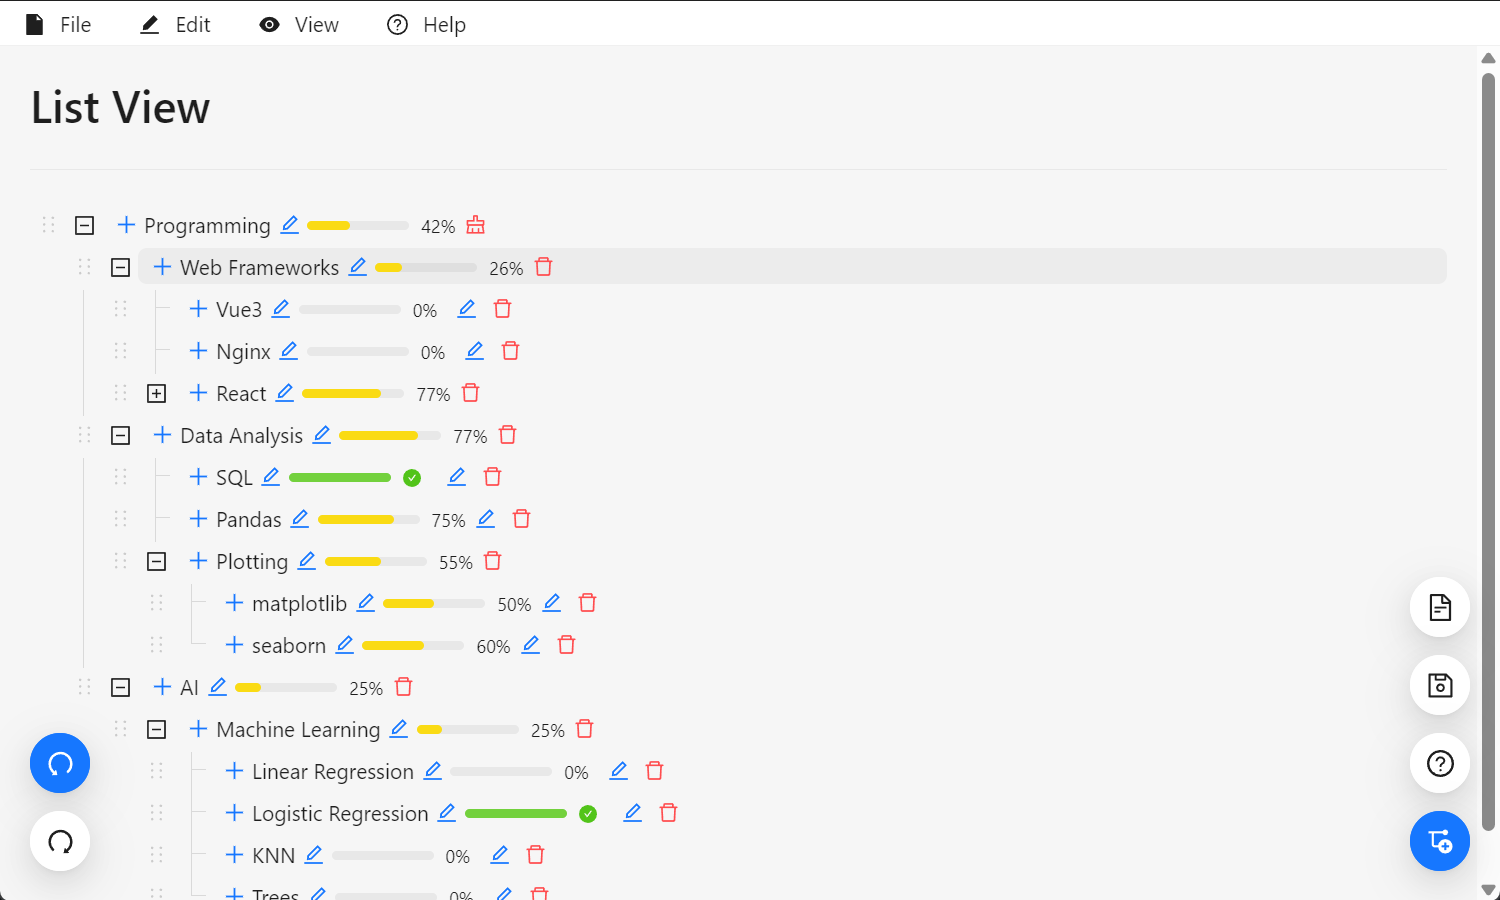
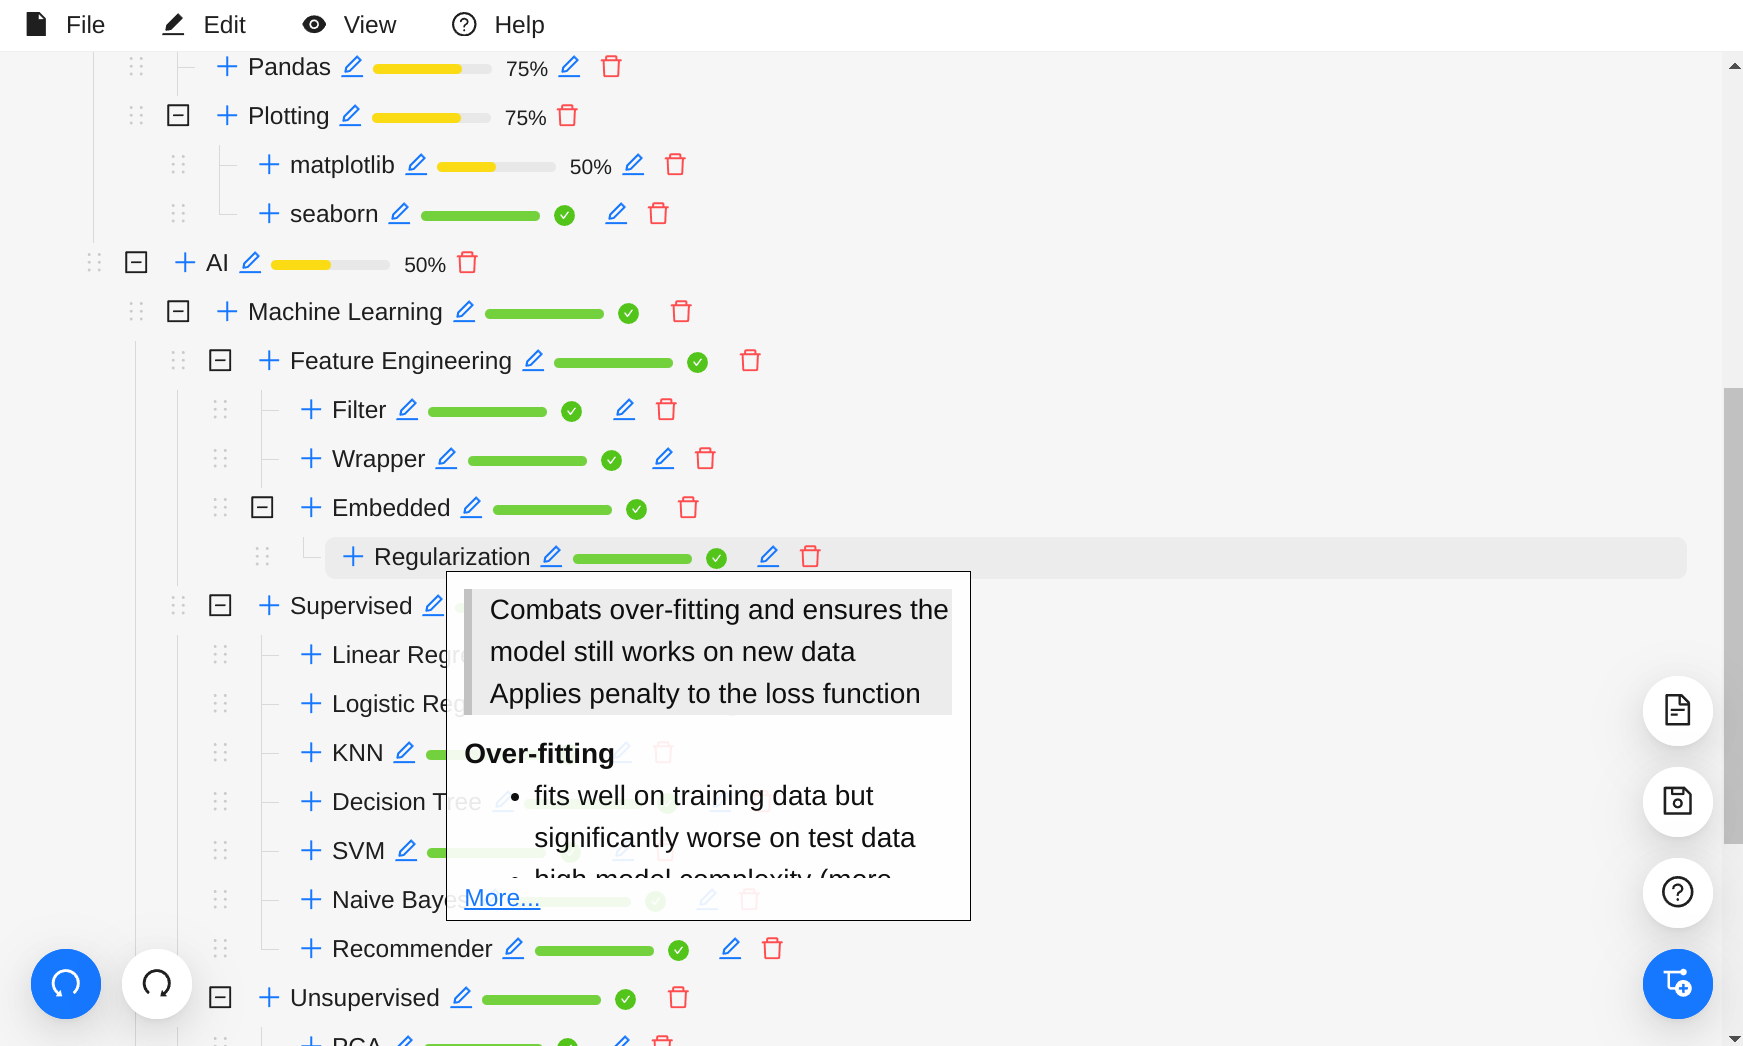
doc: update demo images and badges

diff --git a/README.md b/README.md
@@ -3,7 +3,7 @@
 </div>
 <br/>
 
-[![status](https://img.shields.io/badge/status-beta-light.svg)](https://github.com/zydtiger/LearnForge)
+[![status](https://img.shields.io/badge/status-stable-light.svg)](https://github.com/zydtiger/LearnForge)
 [![version](https://img.shields.io/github/package-json/v/zydtiger/LearnForge)](https://github.com/zydtiger/LearnForge)
 [![top language](https://img.shields.io/github/languages/top/zydtiger/LearnForge)](https://www.typescriptlang.org/)
 [![License](https://img.shields.io/badge/License-MIT-green.svg)](https://opensource.org/licenses/MIT)
@@ -45,6 +45,7 @@ LearnForge is a comprehensive app that empowers you to manage and track your lea
 
 ![Tree View Demo](.github/tree-view-demo.png)
 ![List View Demo](.github/list-view-demo.png)
+![List View Demo](.github/note-view-demo.png)
 
 ## Installation Guide
 
